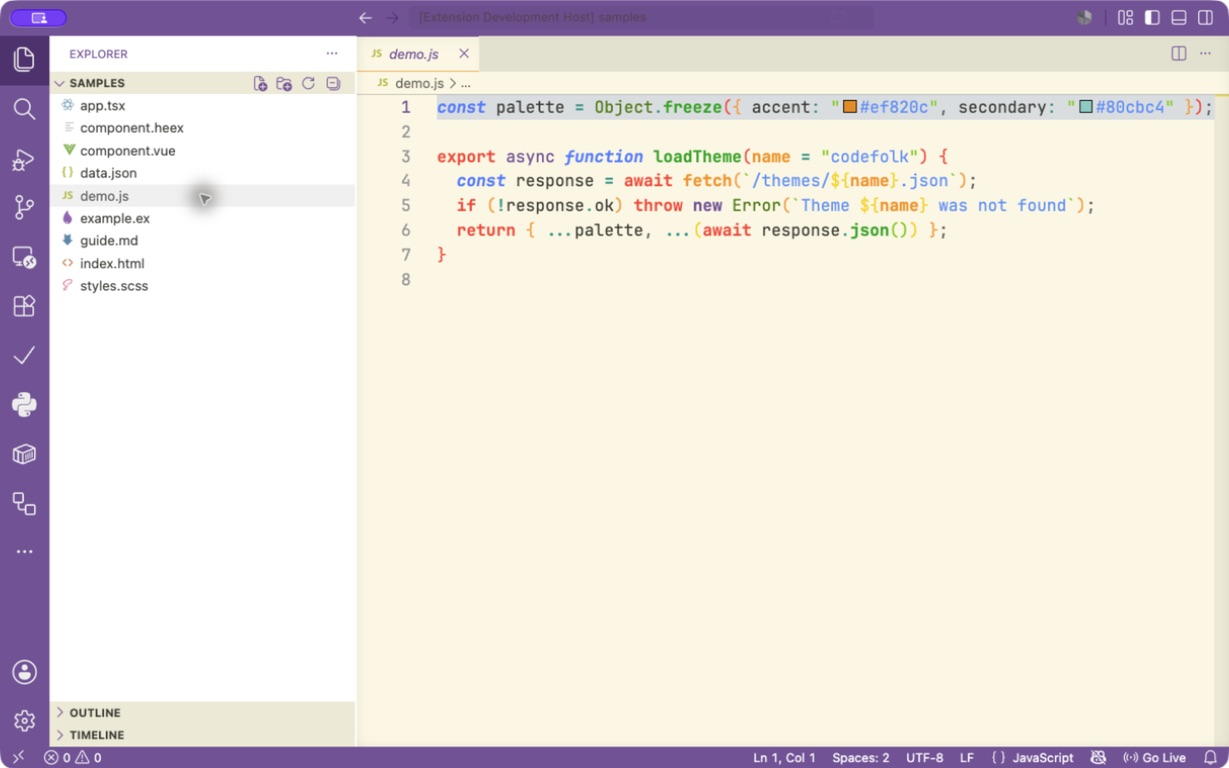
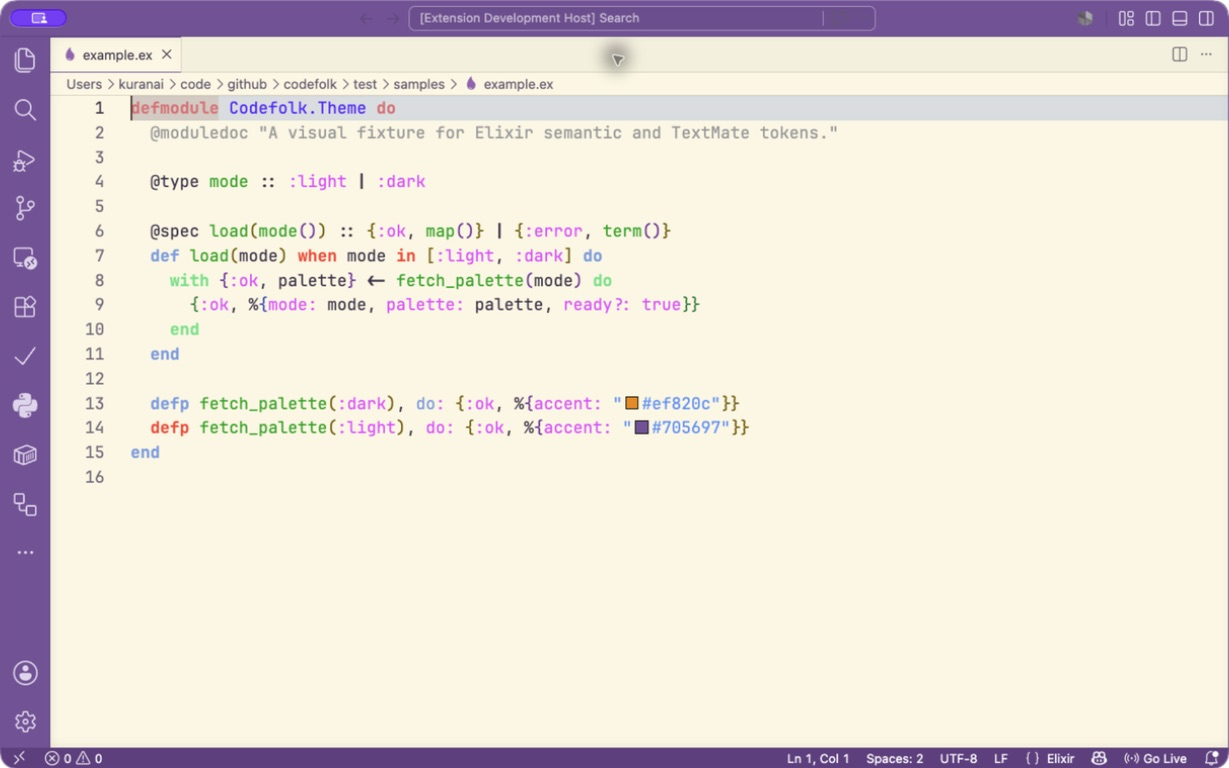
fix: restore escook light editor palette

Changed region(s): [[0.0, 0.0312, 1.0, 1.0], [0.3401, 0.0, 0.7111, 0.0938], [0.8967, 0.0, 1.0, 0.0938]]

diff --git a/src/theme.ts b/src/theme.ts
@@ -570,6 +570,81 @@ function workbench(p: Palette): Record<string, string> {
 }
 
 function syntax(p: Palette): TextMateRule[] {
+  if (p.kind === "dark") return darkSyntax(p);
+  const s = p.syntax;
+  return [
+    { name: "Comments", scope: ["comment", "punctuation.definition.comment"], settings: { foreground: s.comment, fontStyle: "" } },
+    { name: "Strings", scope: ["string", "string.quoted", "string.template", "punctuation.definition.string"], settings: { foreground: "#1794FAF0" } },
+    { name: "Numbers", scope: "constant.numeric", settings: { foreground: s.number } },
+    { name: "Built-in constants", scope: "constant.language", settings: { foreground: s.builtInConstant } },
+    { name: "User constants", scope: ["constant.character", "constant.other"], settings: { foreground: s.constant } },
+    { name: "Keywords", scope: "keyword", settings: { foreground: s.keyword, fontStyle: "bold" } },
+    { name: "Storage", scope: ["storage", "storage.modifier"], settings: { foreground: s.storage } },
+    { name: "Storage types", scope: "storage.type", settings: { foreground: "#0088FF" } },
+    { name: "Operators", scope: ["keyword.operator", "punctuation.separator", "punctuation.accessor"], settings: { foreground: s.punctuation } },
+    { name: "Functions", scope: "entity.name.function", settings: { foreground: s.fn } },
+    { name: "Library functions", scope: "support.function", settings: { foreground: "#FFCD03" } },
+    { name: "Types", scope: ["entity.name.type", "entity.name.class", "entity.name.interface", "support.type", "support.class"], settings: { foreground: s.type } },
+    { name: "Variables", scope: ["variable", "variable.other.readwrite"], settings: { foreground: s.variable } },
+    { name: "Parameters", scope: "variable.parameter", settings: { foreground: s.parameter } },
+    { name: "Properties", scope: ["variable.other.property", "support.type.property-name", "meta.object-literal.key", "entity.other.attribute-name"], settings: { foreground: s.property } },
+    { name: "Language variables", scope: ["variable.language", "variable.language.this", "variable.language.super"], settings: { foreground: s.languageVariable } },
+    { name: "Tags", scope: ["entity.name.tag", "punctuation.definition.tag"], settings: { foreground: s.tag } },
+    { name: "Attributes", scope: ["entity.other.attribute-name", "support.type.property-name.css"], settings: { foreground: s.property } },
+    { name: "CSS values", scope: ["support.constant.property-value", "constant.other.color", "support.constant.font-name"], settings: { foreground: s.string } },
+    { name: "JSON keys", scope: ["support.type.property-name.json", "string.json support.type.property-name.json"], settings: { foreground: s.property } },
+    { name: "Markdown headings", scope: ["markup.heading", "entity.name.section.markdown"], settings: { foreground: s.keyword, fontStyle: "bold" } },
+    { name: "Markdown bold", scope: "markup.bold", settings: { foreground: p.fg, fontStyle: "bold" } },
+    { name: "Markdown italic", scope: "markup.italic", settings: { foreground: p.fg, fontStyle: "italic" } },
+    { name: "Markdown links", scope: ["markup.underline.link", "string.other.link", "meta.link.inline.markdown"], settings: { foreground: p.blue } },
+    { name: "Markdown code", scope: ["markup.inline.raw", "markup.fenced_code.block"], settings: { foreground: s.string } },
+    { name: "Diff inserted", scope: "markup.inserted", settings: { foreground: p.green } },
+    { name: "Diff deleted", scope: "markup.deleted", settings: { foreground: p.red } },
+    { name: "Diff changed", scope: "markup.changed", settings: { foreground: p.yellow } },
+    { name: "Elixir atoms", scope: ["constant.other.symbol.elixir", "constant.other.symbol.ruby"], settings: { foreground: s.constant } },
+    { name: "Elixir module aliases", scope: ["entity.name.type.module.elixir", "support.class.elixir"], settings: { foreground: s.type } },
+    { name: "HEEx components", scope: ["entity.name.tag.heex", "support.class.component.heex", "entity.name.tag.html"], settings: { foreground: s.tag } },
+    { name: "Invalid", scope: ["invalid", "invalid.illegal"], settings: { foreground: p.red } }
+  ];
+}
+
+function semantics(p: Palette): Record<string, SemanticStyle> {
+  if (p.kind === "dark") return darkSemantics(p);
+  const s = p.syntax;
+  return {
+    "class": s.type,
+    "class.declaration": { foreground: s.type, bold: true },
+    "comment": { foreground: s.comment, italic: false },
+    "decorator": p.pink,
+    "enum": s.type,
+    "enumMember": s.constant,
+    "event": p.pink,
+    "function": s.fn,
+    "function.declaration": { foreground: s.fn, bold: true },
+    "interface": s.type,
+    "keyword": s.keyword,
+    "label": p.pink,
+    "macro": p.purple,
+    "method": s.fn,
+    "method.declaration": { foreground: s.fn, bold: true },
+    "namespace": s.type,
+    "number": s.number,
+    "operator": s.punctuation,
+    "parameter": s.parameter,
+    "property": s.property,
+    "regexp": p.orange,
+    "string": s.string,
+    "struct": s.type,
+    "type": s.type,
+    "typeParameter": s.type,
+    "variable": s.variable,
+    "variable.readonly": s.constant,
+    "*.defaultLibrary": s.type,
+    "*.deprecated": { foreground: p.fgSubtle, fontStyle: "strikethrough" }
+  };
+}
+
+function darkSyntax(p: Palette): TextMateRule[] {
   return [
     { name: "Comments", scope: ["comment", "punctuation.definition.comment"], settings: { foreground: p.comment, fontStyle: "italic" } },
     { name: "Strings", scope: ["string", "string.quoted", "string.template", "punctuation.definition.string"], settings: { foreground: p.string } },
@@ -600,7 +675,7 @@ function syntax(p: Palette): TextMateRule[] {
   ];
 }
 
-function semantics(p: Palette): Record<string, SemanticStyle> {
+function darkSemantics(p: Palette): Record<string, SemanticStyle> {
   return {
     "class": p.type,
     "class.declaration": { foreground: p.type, bold: true },

diff --git a/src/palettes.ts b/src/palettes.ts
@@ -35,7 +35,24 @@ export const dark: Palette = {
   type: "#FFCB6B",
   fn: "#82AAFF",
   tag: "#F07178",
-  punctuation: "#B9B9BD"
+  punctuation: "#B9B9BD",
+  syntax: {
+    comment: "#A3ACB9",
+    variable: "#E7E7E7",
+    property: "#FEDD6E",
+    string: "#C3E88D",
+    number: "#F78C6C",
+    constant: "#F78C6C",
+    builtInConstant: "#F78C6C",
+    keyword: "#C792EA",
+    storage: "#C792EA",
+    type: "#FFCB6B",
+    fn: "#82AAFF",
+    tag: "#F07178",
+    punctuation: "#B9B9BD",
+    parameter: "#E7E7E7",
+    languageVariable: "#F78C6C"
+  }
 };
 
 export const light: Palette = {
@@ -73,5 +90,22 @@ export const light: Palette = {
   type: "#7A5200",
   fn: "#1459B8",
   tag: "#B3273A",
-  punctuation: "#625A6D"
+  punctuation: "#625A6D",
+  syntax: {
+    comment: "#999999",
+    variable: "#3B3347",
+    property: "#AE81FF",
+    string: "#1794FA",
+    number: "#0025F5",
+    constant: "#AE81FF",
+    builtInConstant: "#DE5CFF",
+    keyword: "#FF3333",
+    storage: "#EB5086",
+    type: "#124CFA",
+    fn: "#1DA11D",
+    tag: "#F92672",
+    punctuation: "#3B3347",
+    parameter: "#FD8B19",
+    languageVariable: "#FF960D"
+  }
 };

diff --git a/test/validate.ts b/test/validate.ts
@@ -79,6 +79,44 @@ for (const theme of themes) {
 
 assert.deepEqual(Object.keys(themes[0]!.colors), Object.keys(themes[1]!.colors), "Light/dark color keys drifted");
 
+const lightTheme = themes.find((theme) => theme.type === "light")!;
+const lightTextMateExpectations: Record<string, string> = {
+  Comments: "#999999",
+  Strings: "#1794FAF0",
+  Numbers: "#0025F5",
+  "Built-in constants": "#DE5CFF",
+  "User constants": "#AE81FF",
+  Keywords: "#FF3333",
+  Functions: "#1DA11D",
+  Types: "#124CFA",
+  Parameters: "#FD8B19"
+};
+
+for (const [name, expected] of Object.entries(lightTextMateExpectations)) {
+  const rule = lightTheme.tokenColors.find((candidate) => candidate.name === name);
+  assert.equal(rule?.settings.foreground?.toUpperCase(), expected, `Codefolk Light drifted from escook ${name}`);
+}
+
+const lightFunctionRule = lightTheme.tokenColors.find((candidate) => candidate.name === "Functions")!;
+assert.deepEqual(lightFunctionRule.scope, "entity.name.function", "Codefolk Light must not over-color ordinary function calls");
+const lightLibraryFunctionRule = lightTheme.tokenColors.find((candidate) => candidate.name === "Library functions")!;
+assert.equal(lightLibraryFunctionRule.settings.foreground, "#FFCD03");
+
+const lightSemanticExpectations: Record<string, string> = {
+  keyword: "#FF3333",
+  string: "#1794FA",
+  number: "#0025F5",
+  function: "#1DA11D",
+  parameter: "#FD8B19",
+  type: "#124CFA"
+};
+
+for (const [selector, expected] of Object.entries(lightSemanticExpectations)) {
+  const style = lightTheme.semanticTokenColors[selector];
+  const foreground = typeof style === "string" ? style : style?.foreground;
+  assert.equal(foreground?.toUpperCase(), expected, `Codefolk Light semantic ${selector} drifted from escook`);
+}
+
 const contrastPairs = [
   ["editor.foreground", "editor.background"],
   ["foreground", "editor.background"],

diff --git a/src/types.ts b/src/types.ts
@@ -66,4 +66,21 @@ export interface Palette {
   fn: string;
   tag: string;
   punctuation: string;
+  syntax: {
+    comment: string;
+    variable: string;
+    property: string;
+    string: string;
+    number: string;
+    constant: string;
+    builtInConstant: string;
+    keyword: string;
+    storage: string;
+    type: string;
+    fn: string;
+    tag: string;
+    punctuation: string;
+    parameter: string;
+    languageVariable: string;
+  };
 }

diff --git a/CHANGELOG.md b/CHANGELOG.md
@@ -11,3 +11,7 @@ All notable changes to Codefolk are documented here.
 - Semantic highlighting for declarations, types, functions, parameters, properties, readonly values, and deprecated symbols.
 - Modern editor, terminal, notebook, SCM/merge, debug, testing, chat, and workbench colors.
 - Deterministic TypeScript theme generator, registry validation, contrast checks, visual fixtures, VSIX packaging, and release automation.
+
+### Changed
+
+- Restored escook Light's characteristic editor palette for strings, keywords, constants, functions, parameters, types, and comments while retaining modern Codefolk workbench coverage.